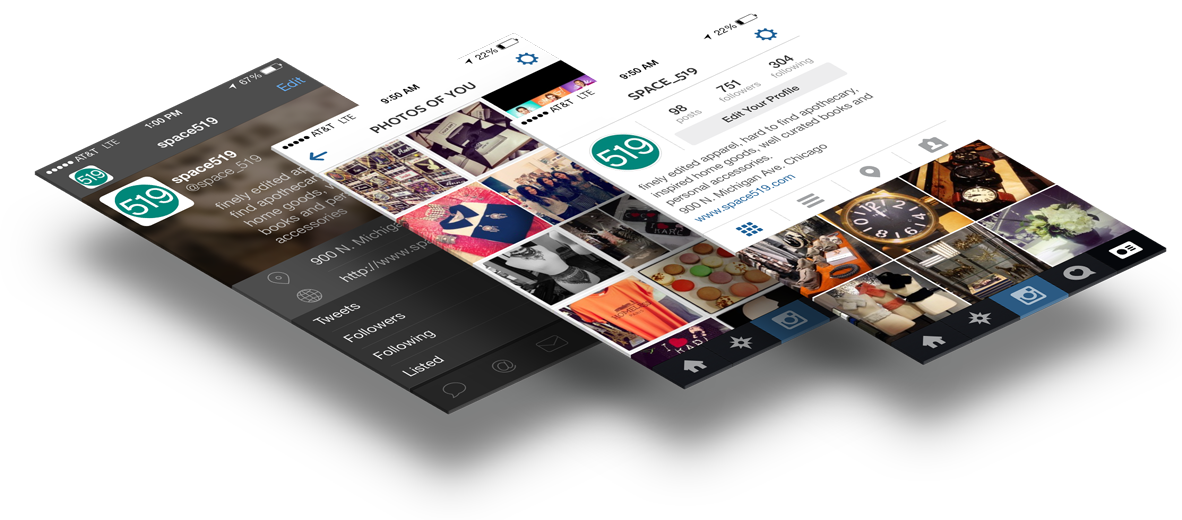
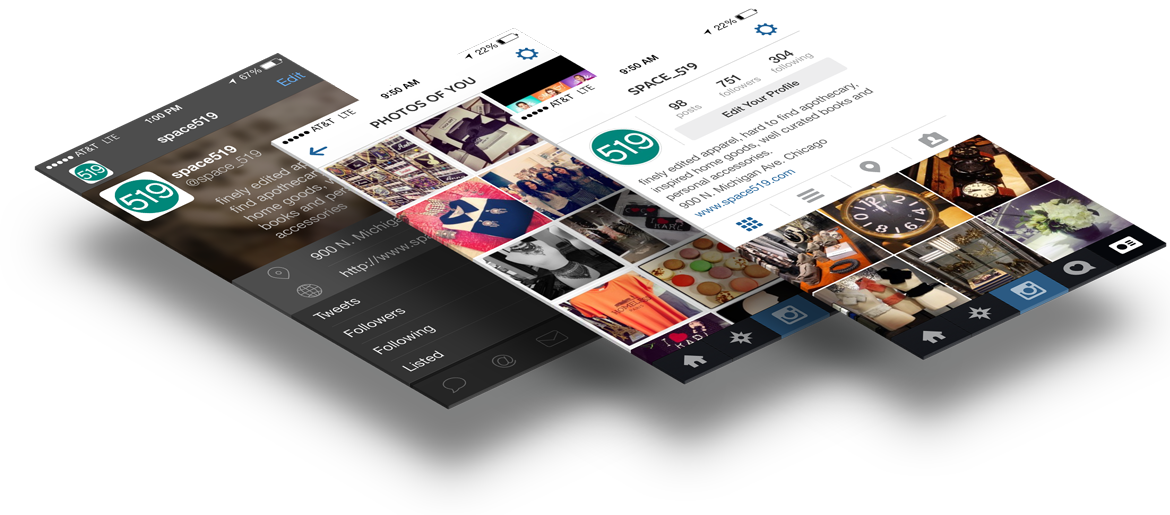
img min

diff --git a/space519.html b/space519.html
@@ -63,7 +63,7 @@ From furniture to apothecary, space519's inventory is ever changing. For a small
 
 
 <div class="space519-iphone">
-<img src="img/space519/space519-cap.png">
+<img src="img/space519/screens.png">
 </div>
 
 <p class="project-bio">
